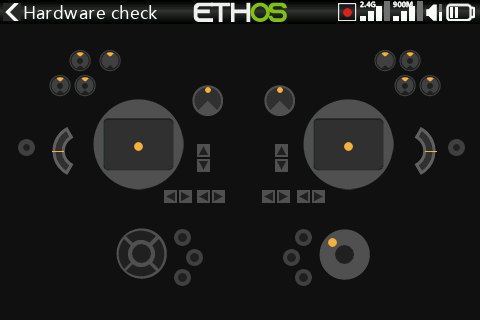
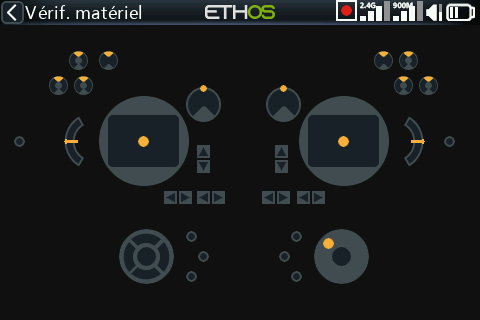
Screenshots for X18S added

diff --git a/forge/screenshots.py b/forge/screenshots.py
@@ -93,9 +93,14 @@ X20PRO_MACROS = [
   "x20pro.lua"
 ]
 
+X18S_MACROS = [
+  "x18s.lua"
+]
+
 ALL_MACROS = {
     "X20S_FCC": X20S_MACROS,
     "X20PRO_FCC": X20PRO_MACROS,
+    "X18S_FCC": X18S_MACROS,
 }
 
 
